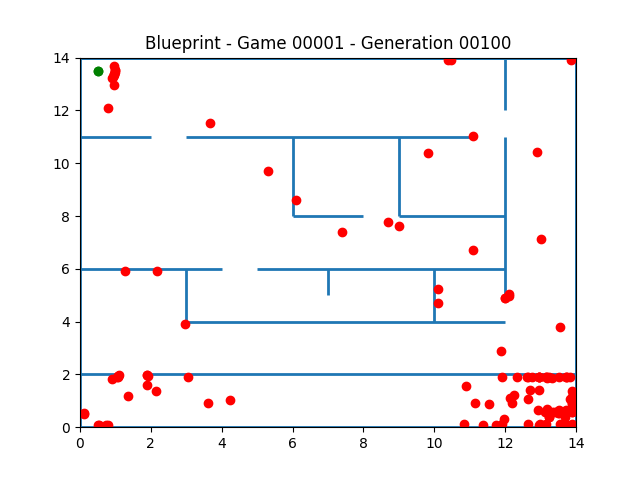
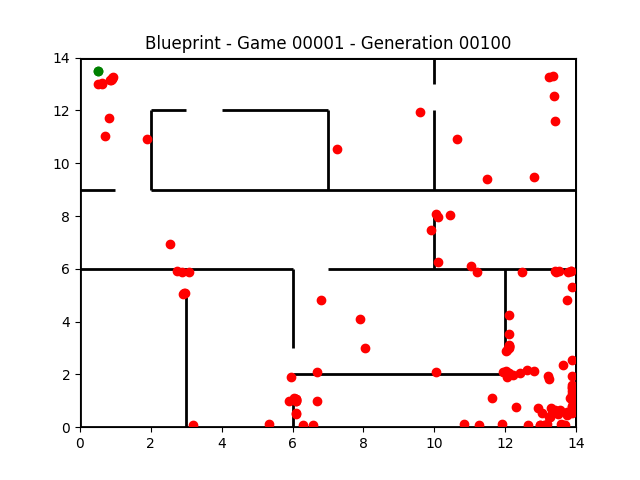
Segmented blueprint-creation in main

diff --git a/main.py b/main.py
@@ -29,12 +29,13 @@ def query_net(net, states):
 if __name__ == '__main__':
     parser = argparse.ArgumentParser(description='')
     parser.add_argument('--train', type=bool, default=False)
-    parser.add_argument('--evaluate', type=bool, default=True)
+    parser.add_argument('--blueprint', type=bool, default=True)
+    parser.add_argument('--evaluate', type=bool, default=False)
     parser.add_argument('--visualize', type=bool, default=False)
     args = parser.parse_args()
     
     pop = Population(
-            name='novelty',
+            name='distance',
             rel_path='control/NEAT/',
             make_net_method=make_net,
             query_net_method=query_net,
@@ -52,9 +53,16 @@ if __name__ == '__main__':
         # Train for 100 generations
         trainer.evaluate_and_evolve(pop, n=100)
         
+    if args.blueprint:
+        print("\n===> CREATING BLUEPRINTS <===\n")
+        from environment.training_env import TrainingEnv
+    
+        trainer = TrainingEnv(
+                rel_path='environment/',
+        )
         # Create the blueprints for first 5 games
         for g in range(1, 6):
-            print("Evaluate on game {}".format(g))
+            print("Creating blueprints for  game {}".format(g))
             trainer.set_games([g])
             # for i in range(11):
             #     pop.load(gen=int(i * 10))
